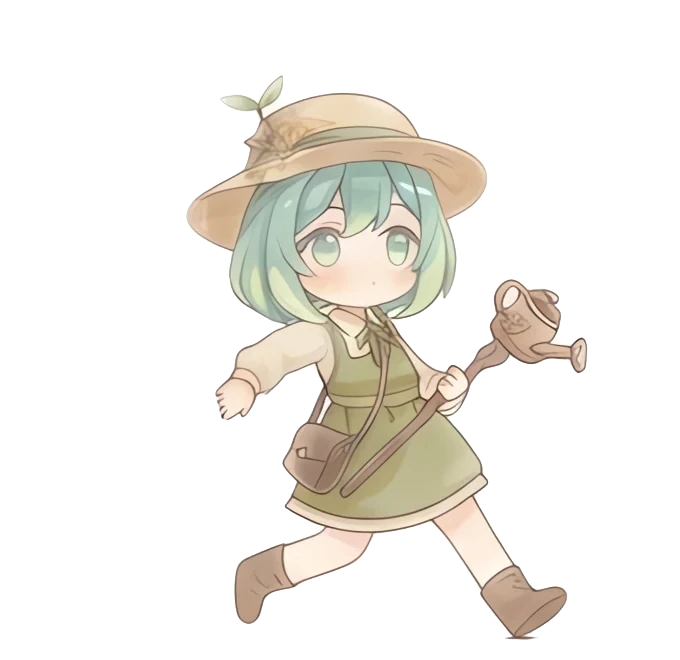
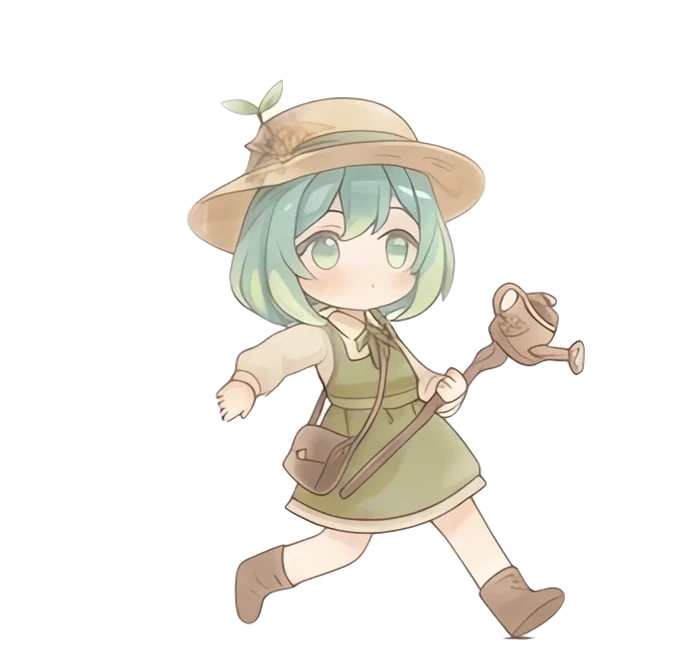
sprout v0.9.4: run cycle reordered as forward loop, head-stabilized frames, stride-matched cycle (106px), idle breathing deform, lighter outline
Claude-Session: https://claude.ai/code/session_01D8ERGz5r4FPkuXoKDYhqRw

diff --git a/sprout/index.html b/sprout/index.html
@@ -286,7 +286,7 @@ function updPlayer(dt){
  if(p.onG&&!hurt&&p.atkT<=0){
   if(!dir&&Math.abs(p.vx)>180&&!(p.brakeT>0)&&!(p.dashT>0)){p.brakeT=.16;p.brakeD=Math.sign(p.vx);dust(p.x+p.brakeD*14,p.y,3);p.sq={t:.12,sx:1.08,sy:.94}}
   if(dir&&Math.abs(p.vx)>140&&Math.sign(p.vx)!==dir&&!(p.turnT>0)){p.turnT=.12;dust(p.x,p.y,3);p.sq={t:.1,sx:.9,sy:1.07}}
-  if(dir&&Math.abs(p.vx)<20&&!(p.startT>0)){p.startT=.1;p.rph=.13;dust(p.x-dir*10,p.y,2)}}
+  if(dir&&Math.abs(p.vx)<20&&!(p.startT>0)){p.startT=.1;p.ri=1;p.rdist=0;dust(p.x-dir*10,p.y,2)}}
  if(p.brakeT>0)p.brakeT-=dt;if(p.jcT>0)p.jcT-=dt;if(p.landT>0)p.landT-=dt;if(p.turnT>0)p.turnT-=dt;if(p.startT>0)p.startT-=dt;
  if(dir){if(p.onG&&Math.sign(p.vx)===-dir&&Math.abs(p.vx)>140&&p.turnT>=.11)p.vx*=.35;p.vx+=dir*accel*dt;if(p.atkT<=0)p.face=dir;}else{if(p.onG){const sp=Math.max(0,Math.abs(p.vx)-2000*dt);p.vx=Math.sign(p.vx)*sp}else p.vx*=Math.pow(.3,dt)}
  p.vx=Math.max(-maxV,Math.min(maxV,p.vx));if(Math.abs(p.vx)>maxV&&maxV===0)p.vx*=.9;
@@ -302,7 +302,7 @@ function updPlayer(dt){
  if(ST.lock){p.x=Math.max(ST.lock.a+20,Math.min(ST.lock.b-20,p.x))}
  const fallV=p.vy;const was=p.onG;p.onG=landOn(p,prevY);if(p.onG&&!was&&ST.intro&&!ST.introLanded){ST.introLanded=1;vfx('vfx_lvup',p.x,p.y-70,{s0:.3,s1:.5,life:.9,a:.7});shake(3);SFX.big();dust(p.x,p.y,10)}if(p.onG&&!was){if(fallV>220)p.landT=.11;dust(p.x-10,p.y,5);dust(p.x+10,p.y,5);p.sq={t:.1,sx:1.18,sy:.82};if(fallV>300)play('impactSoft_heavy_000',.16,1.4);if(fallV>500){shake(2)}}
  if(p.onG&&dir&&Math.sign(p.vx)!==dir&&Math.abs(p.vx)>120&&Math.random()<.5)dust(p.x,p.y,1);
- if(p.onG&&Math.abs(p.vx)>30){const N=RCN();if(N){const prev=Math.floor((p.rph||0)*N)%N;p.rph=((p.rph||0)+Math.abs(p.vx)*dt/125)%1;const fr=Math.floor(p.rph*N)%N;if(fr!==prev&&(fr===0||fr===N/2)&&Math.abs(p.vx)>200){dust(p.x-p.face*10,p.y,2);if(!play('impactSoft_medium_000',.05,1.6+Math.random()*.2)){}}}else if(Math.abs(p.vx)>200){p.stepT=(p.stepT||0)-dt;if(p.stepT<=0){p.stepT=.24;dust(p.x-p.face*12,p.y,3)}}}
+ if(p.onG&&Math.abs(p.vx)>30){const N=RCN();if(N){const prev=p.ri||0;p.rdist=(p.rdist||0)+Math.abs(p.vx)*dt;p.ri=prev;while(p.rdist>=RC_D[p.ri]){p.rdist-=RC_D[p.ri];p.ri=(p.ri+1)%8}const fr=p.ri;if(fr!==prev&&(fr===0||fr===4)&&Math.abs(p.vx)>200){dust(p.x-p.face*10,p.y,2);if(!play('impactSoft_medium_000',.05,1.6+Math.random()*.2)){}}}else if(Math.abs(p.vx)>200){p.stepT=(p.stepT||0)-dt;if(p.stepT<=0){p.stepT=.24;dust(p.x-p.face*12,p.y,3)}}}
  if(p.sq&&p.sq.t>0)p.sq.t-=dt;
  // 공격 콤보 (3단 + 공중 + 올려치기)
  if(p.atkT>0)p.atkT-=dt;
@@ -752,8 +752,8 @@ function drawPlat(p,cx){
 function roundRect(x,y,w,h,r){ctx.beginPath();ctx.moveTo(x+r,y);ctx.arcTo(x+w,y,x+w,y+h,r);ctx.arcTo(x+w,y+h,x,y+h,r);ctx.arcTo(x,y+h,x,y,r);ctx.arcTo(x,y,x+w,y,r);ctx.closePath()}
 function drawVine(v,cx){const x=v.x-cx;if(x<-20||x>VW+20)return;ctx.save();ctx.lineCap='round';ctx.globalAlpha=.8;ctx.strokeStyle='#3f6b2a';ctx.lineWidth=7;ctx.beginPath();ctx.moveTo(x,v.y1);for(let y=v.y1;y<v.y2;y+=8)ctx.lineTo(x+Math.sin(y*.06)*4,y);ctx.stroke();ctx.strokeStyle='#7fb352';ctx.lineWidth=4;ctx.stroke();ctx.strokeStyle='rgba(220,255,180,.5)';ctx.lineWidth=1.5;ctx.stroke();
  for(let y=v.y1+10,i=0;y<v.y2-6;y+=16,i++){const sd=i%2?1:-1,lx=x+Math.sin(y*.06)*4;ctx.fillStyle=i%3?'#6fa548':'#8cc45e';ctx.beginPath();ctx.ellipse(lx+sd*8,y,9,4.5,sd*.5,0,7);ctx.fill();ctx.strokeStyle='#3f6b2a';ctx.lineWidth=1;ctx.stroke()}ctx.restore()}
-const OLC=new Map();function outl(img){let c=OLC.get(img);if(c)return c;const pp=Math.max(2,Math.round(img.naturalHeight/90));c=document.createElement('canvas');c.width=img.naturalWidth+pp*2;c.height=img.naturalHeight+pp*2;c.pp=pp;const x=c.getContext('2d');
- for(let i=0;i<12;i++){const a=i/12*Math.PI*2;x.drawImage(img,pp+Math.cos(a)*pp,pp+Math.sin(a)*pp)}x.globalCompositeOperation='source-in';x.fillStyle='rgba(52,36,30,.78)';x.fillRect(0,0,c.width,c.height);x.globalCompositeOperation='source-over';x.drawImage(img,pp,pp);OLC.set(img,c);return c}
+const OLC=new Map();function outl(img){let c=OLC.get(img);if(c)return c;const pp=Math.max(2,Math.round(img.naturalHeight/115));c=document.createElement('canvas');c.width=img.naturalWidth+pp*2;c.height=img.naturalHeight+pp*2;c.pp=pp;const x=c.getContext('2d');
+ for(let i=0;i<12;i++){const a=i/12*Math.PI*2;x.drawImage(img,pp+Math.cos(a)*pp,pp+Math.sin(a)*pp)}x.globalCompositeOperation='source-in';x.fillStyle='rgba(60,40,32,.62)';x.fillRect(0,0,c.width,c.height);x.globalCompositeOperation='source-over';x.drawImage(img,pp,pp);OLC.set(img,c);return c}
 function sprite(img,x,y,h,face,opt){
  opt=opt||{};if(!img||!img.naturalWidth){ctx.fillStyle=opt.col||'#888';ctx.beginPath();ctx.ellipse(x,y-h/2,h*.3,h/2,0,0,7);ctx.fill();return}
  if(opt.k){h=img.naturalHeight*opt.k/HD}const w=img.naturalWidth*(h/img.naturalHeight);
@@ -763,21 +763,24 @@ function sprite(img,x,y,h,face,opt){
  ctx.translate(0,opt.dy||0);if(opt.rot)ctx.rotate(opt.rot);
  ctx.scale((face<0?-1:1)*(opt.sx||1),opt.sy2||1);
  if(opt.alpha!=null)ctx.globalAlpha=opt.alpha;
- if(opt.noOl)ctx.drawImage(img,-w/2,-h,w,h);else{const o=outl(img),sc=h/img.naturalHeight,pp=o.pp*sc;ctx.drawImage(o,-w/2-pp,-h-pp,w+pp*2,h+pp*2)}
+ if(opt.br!=null&&!opt.noOl){const o=outl(img),sc=h/img.naturalHeight,pp=o.pp*sc,DW=w+pp*2,DH=h+pp*2,N=28,sh=o.height/N;const br=opt.br,sw=opt.sw||0;let yb=0;const hs=[];let tot=0;for(let i=0;i<N;i++){const v=i/N,up=Math.max(0,Math.min(1,(.62-v)/.62));const hh=DH/N*(1+br*.035*up);hs.push(hh);tot+=hh}let y=-h-pp-(tot-DH);for(let i=0;i<N;i++){const v=i/N,top=Math.pow(Math.max(0,1-v/.55),2);const xo=sw*3.2*top;ctx.drawImage(o,0,i*sh,o.width,sh+1,-w/2-pp+xo,y,DW,hs[i]+.6);y+=hs[i]}}
+ else if(opt.noOl)ctx.drawImage(img,-w/2,-h,w,h);else{const o=outl(img),sc=h/img.naturalHeight,pp=o.pp*sc;ctx.drawImage(o,-w/2-pp,-h-pp,w+pp*2,h+pp*2)}
  if(opt.flash>0){ctx.globalCompositeOperation='lighter';ctx.globalAlpha=Math.min(.7,opt.flash);ctx.drawImage(img,-w/2,-h,w,h);}
  ctx.restore();
 }
 function trailX(d){const T=ST.trail;if(!T||!T.length)return ST.pl.x-ST.pl.face*d;let acc=0,px=ST.pl.x;for(let i=T.length-1;i>=0;i--){acc+=Math.abs(px-T[i]);if(acc>=d)return T[i];px=T[i]}return T[0]}
 function pushTrail(){const p=ST.pl;ST.trail=ST.trail||[];const T=ST.trail;if(!T.length||Math.abs(T[T.length-1]-p.x)>3){T.push(p.x);if(T.length>120)T.shift()}}
+{const _arc=CanvasRenderingContext2D.prototype.arc;CanvasRenderingContext2D.prototype.arc=function(x,y,r,a,b,c){return _arc.call(this,x,y,r>0?r:0,a,b,c)}}
+const RC_O=[6,3,1,5,2,0,4,7],RC_D=[13.3,13.3,13.3,13.3,13.3,13.3,13.3,13.3],RC_Y=[0,1,0,-1.5,0,1,0,-1.5];
 function RCN(){if(RCN.n!=null)return RCN.n;let n=0;while(n<8&&IMG['p_rc'+n]&&IMG['p_rc'+n].naturalWidth)n++;if(n<6)return 0;return (document.readyState==='complete')?(RCN.n=n):n}
 function drawPlayer(cx){
  const p=ST.pl,x=p.x-cx;const t=p.anim;
  let dy=0,sx=1,sy=1,rot=0,img=IMG.p_idle;
  const RF=[IMG.p_r1,IMG.p_r2,IMG.p_r3,IMG.p_r4];
- const N=RCN();if(p.state==='run'&&N){img=IMG['p_rc'+(Math.floor((p.rph||0)*N)%N)];dy=-2.2*(1-Math.cos((p.rph||0)*Math.PI*4));if(p.turnT>0){img=IMG.p_rc0;sx*=1.06;sy*=.95}if(p.startT>0)rot+=Math.sign(p.vx)*.06}
+ const N=RCN();if(p.state==='run'&&N){const ri=p.ri||0,fk=Math.min(1,(p.rdist||0)/RC_D[ri]);img=IMG['p_rc'+RC_O[ri]];dy=RC_Y[ri]+(RC_Y[(ri+1)%8]-RC_Y[ri])*fk;if(p.turnT>0){img=IMG.p_rc0;sx*=1.06;sy*=.95}if(p.startT>0)rot+=Math.sign(p.vx)*.06}
  else if(p.state==='idle'&&p.brakeT>0){const k=p.brakeT/.16;img=N?IMG.p_rc0:IMG.p_idle;rot=-p.brakeD*.1*k;sx*=1+.05*k;sy*=1-.04*k}
  else if(p.state==='run'){img=IMG.p_run2&&IMG.p_run2.naturalWidth?IMG.p_run2:IMG.p_run;const ph=t*13;const c=Math.sin(ph);dy=-Math.abs(c)*9;sy*=1+Math.abs(c)*.03-(1-Math.abs(c))*.035;sx*=1-Math.abs(c)*.015+(1-Math.abs(c))*.03;rot+=Math.sin(ph*.5)*.035}
- else if(p.state==='idle'){const b=Math.sin(t*5.2);sy=1+b*.016;sx=1-b*.008;dy=-(b+1)*1.1;rot=Math.sin(t*2.6)*.018}
+ else if(p.state==='idle'){p.brv=(Math.sin(t*4.2)+1)/2;p.swv=Math.sin(t*2.1+.6)}
  else if(p.state==='jump'){const JK=n=>IMG[n]&&IMG[n].naturalWidth?IMG[n]:null;img=(p.jcT>0&&JK('p_jc'))||(p.vy<-60&&JK('p_jr'))||JK('p_jf')||(p.vy<120?IMG.p_jump:IMG.p_run);sy*=p.vy<0?1.05:.98;sx*=p.vy<0?.97:1.02;rot+=Math.max(-.08,Math.min(.1,p.vy/5000))}
  else if(p.state==='climb'){img=IMG.p_jump;rot=Math.sin(p.y*.05)*.05}
  const KF=n=>IMG[n]&&IMG[n].naturalWidth?IMG[n]:IMG.p_swing;
@@ -795,7 +798,7 @@ function drawPlayer(cx){
  if(p.atkT>0&&p.state!=='climb'){drawSlash(p,x)}
  if(p.dashT>0){ST.ghost=ST.ghost||[];if(!ST.ghostT||ST.t-ST.ghostT>.035){ST.ghostT=ST.t;ST.ghost.push({img,x:p.x,y:p.y,face:p.face,life:.18})}}
  if(ST.ghost){for(const g of ST.ghost){g.life-=1/60;if(g.life>0&&g.img&&g.img.naturalWidth){ctx.save();ctx.globalAlpha=g.life*2.2;ctx.globalCompositeOperation='lighter';sprite(g.img,g.x-(p.x-x),g.y,0,g.face,{k:.58,noShadow:1,alpha:g.life*1.6});ctx.restore()}}ST.ghost=ST.ghost.filter(g=>g.life>0)}
- const isRC=img&&img.src&&/p_(rc\d|j[crfl])\./.test(img.src);sprite(img&&img.naturalWidth?img:IMG.sprout,x,p.y,110,1,{k:img&&img.naturalWidth?(isRC?.455:.58):0,dy:dy+(isRC?4:0),sx:sx*vfs,sy2:sy,rot,alpha:blink?.62:1,flash:p.hurtT>.12?.28:0});
+ const isRC=img&&img.src&&/p_(rc\d|j[crfl])\./.test(img.src);sprite(img&&img.naturalWidth?img:IMG.sprout,x,p.y,110,1,{k:img&&img.naturalWidth?(isRC?.455:.58):0,dy:dy+(isRC?4:0),sx:sx*vfs,sy2:sy,rot,alpha:blink?.62:1,flash:p.hurtT>.12?.28:0,br:(p.state==='idle'&&img===IMG.p_idle&&!(p.sq&&p.sq.t>0))?p.brv:null,sw:p.swv});
  if(p.skillT>0&&IMG.fx_leaf.naturalWidth){ctx.save();ctx.globalAlpha=Math.min(1,p.skillT*3);sprite(IMG.fx_leaf,x+p.face*60,p.y-20,0,p.face,{k:.6+(0.5-p.skillT),noShadow:1,rot:ST.t*4});ctx.restore()}
  nameTag(x,p.y+18,(SV.job?'꽃의 기사':'새싹 소녀')+(SV.wpn?' +'+SV.wpn:''),SV.job?'#ffd86b':(SV.wpn>=10?'#ffd86b':'#fbf5e6'));
 }
@@ -966,7 +969,7 @@ function drawTitle(dt){
  button(W-232,H-58,104,40,'📖 도감',()=>{scene='book'},'#cfe7b8');
  button(W-120,H-58,104,40,SV.mute?'🔇 음악':'🎵 음악',()=>{SV.mute=!SV.mute;save();if(SV.mute)bgmStop();else bgmStart()},'#e7e0f6');
  btns.unshift({x:0,y:0,w:W,h:H,cb:startGame});
- ctx.fillStyle='rgba(58,41,30,.7)';ctx.font='bold 12px system-ui';ctx.fillText('v0.9.3 · 육성 시험판 · 효과음 Kenney (CC0)',14,H-14);
+ ctx.fillStyle='rgba(58,41,30,.7)';ctx.font='bold 12px system-ui';ctx.fillText('v0.9.4 · 육성 시험판 · 효과음 Kenney (CC0)',14,H-14);
  if(loaded<NAMES.length){ctx.fillStyle='#fff';ctx.font='bold 13px system-ui';ctx.fillText('그림 불러오는 중… '+loaded+'/'+NAMES.length,14,24)}
  // 꽃잎 (천천히)
  for(let i=0;i<22;i++){const sp=18+(i%5)*6,x=((i*137+titleT*sp*1.4)%(W+80))-40,y=((i*89+titleT*(sp+10))%(H+60))-30;ctx.save();ctx.translate(x,y);ctx.rotate(titleT*.8+i);ctx.fillStyle=i%3?'rgba(255,214,228,.75)':'rgba(255,240,200,.7)';ctx.beginPath();ctx.ellipse(0,0,6,3,0,0,7);ctx.fill();ctx.restore()}
